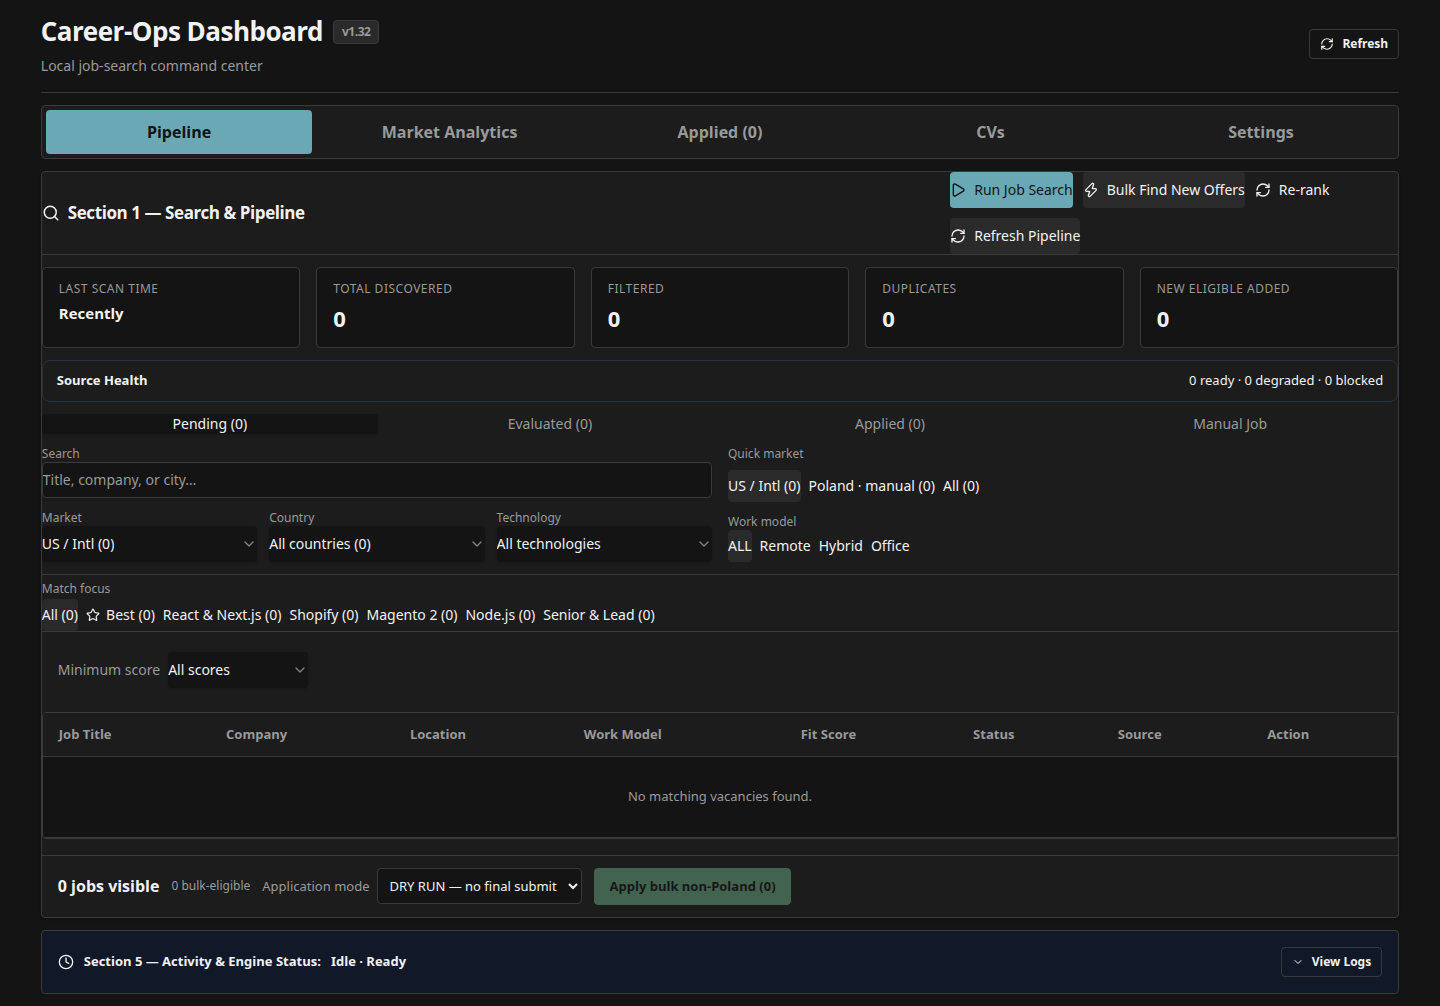
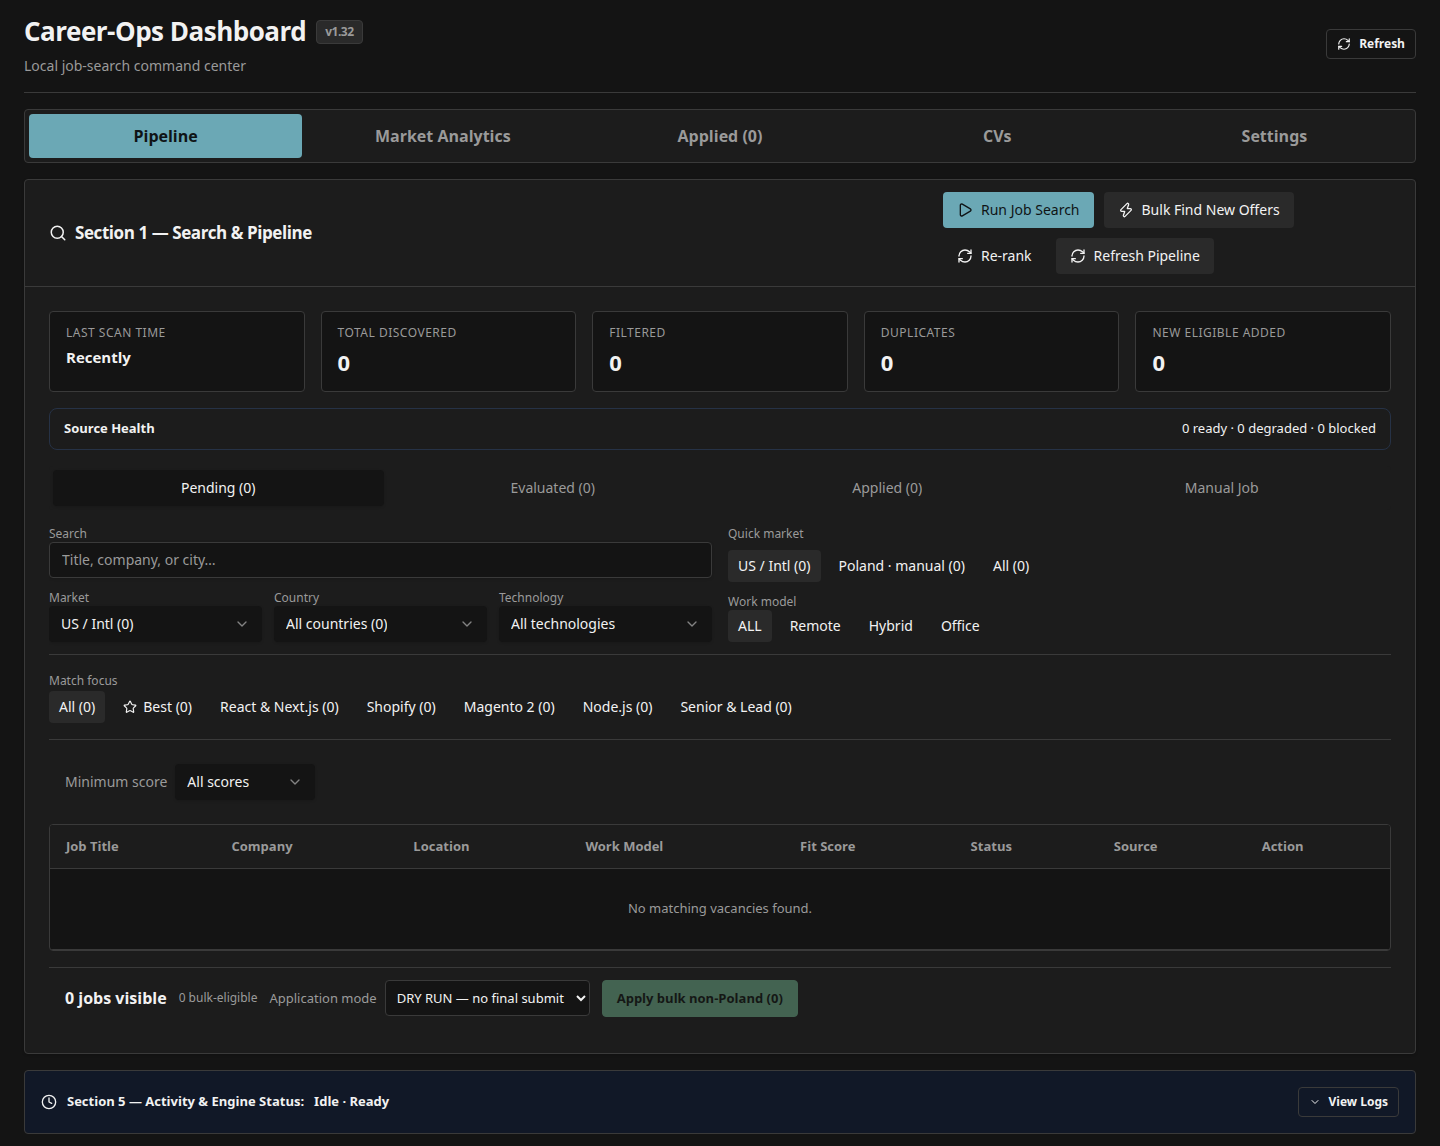
fix(ui): restore horizontal padding and toolbar-to-table spacing
Remove universal padding:0 reset that blocked Tailwind px-* utilities.
Add dashboard and pipeline section insets (16px/24px), gap-4 between
toolbar blocks and the job table, and aligned stats/filters/table edges.

diff --git a/ui/src/App.tsx b/ui/src/App.tsx
@@ -641,7 +641,7 @@ export function App() {
     });
 
   return (
-    <div className={`dashboard ${selectedJob ? "has-job-details" : ""}`}>
+    <div className={`dashboard box-border flex flex-col gap-3 px-4 py-2.5 md:gap-4 md:px-6 md:py-3 ${selectedJob ? "has-job-details" : ""}`}>
       {/* Header */}
       <header className="header">
         <div className="header-title-group">
@@ -877,7 +877,7 @@ export function App() {
 
       {/* SECTION 1: SEARCH & PIPELINE */}
       {activeTab === "pipeline" && <Card className="card pipeline-card gap-0 border-border bg-card !p-0 overflow-hidden">
-        <CardHeader className="card-header flex-col items-stretch gap-3 space-y-0 border-b border-border p-3 sm:flex-row sm:items-start sm:justify-between">
+        <CardHeader className="pipeline-section-header card-header flex-col items-stretch gap-3 space-y-0 border-b border-border px-4 py-3 md:px-6 sm:flex-row sm:items-start sm:justify-between">
           <CardTitle className="card-title flex items-center gap-2 text-base font-semibold">
             <Search size={18} /> Section 1 — Search & Pipeline
           </CardTitle>
@@ -899,10 +899,10 @@ export function App() {
             </Button>
           </div>
         </CardHeader>
-        <CardContent className="flex flex-col gap-3 p-3">
+        <CardContent className="pipeline-section-body flex flex-col gap-4 px-4 pb-4 pt-3 md:px-6 md:pb-6">
 
         {/* Stats Strip */}
-        <div className="stats-strip">
+        <div className="stats-strip min-w-0 w-full">
           <div className="stat-box">
             <span className="stat-label">Last Scan Time</span>
             <span className="stat-value" style={{ fontSize: "15px" }}>
@@ -967,7 +967,7 @@ export function App() {
             setModelFilter={setModelFilter}
           />
 
-        <div className="flex min-w-0 w-full flex-col gap-3 md:gap-4">
+        <div className="flex min-w-0 w-full flex-col gap-4">
         {pipelineView === "manual" && (
           <ManualJobBoard
             providerId={selectedProviderId}

diff --git a/ui/src/App.css b/ui/src/App.css
@@ -2,19 +2,46 @@
 
 .dashboard {
   max-width: 1950px;
-  width: min(96vw, 100%);
+  width: 100%;
   margin: 0 auto;
-  padding: 0.625rem;
   display: flex;
   flex-direction: column;
-  gap: 0.625rem;
   flex: 1;
+  box-sizing: border-box;
+  padding-inline: 1rem;
+  padding-block: 0.625rem;
+  gap: 0.75rem;
 }
 
 @media (min-width: 768px) {
   .dashboard {
-    padding: 0.75rem;
-    gap: 0.75rem;
+    padding-inline: 1.5rem;
+    padding-block: 0.75rem;
+    gap: 1rem;
+  }
+}
+
+.pipeline-card .pipeline-section-body {
+  padding-inline: 1rem;
+  padding-bottom: 1rem;
+  padding-top: 0.75rem;
+  gap: 1rem;
+}
+
+@media (min-width: 768px) {
+  .pipeline-card .pipeline-section-body {
+    padding-inline: 1.5rem;
+    padding-bottom: 1.5rem;
+  }
+}
+
+.pipeline-card .pipeline-section-header {
+  padding-inline: 1rem;
+}
+
+@media (min-width: 768px) {
+  .pipeline-card .pipeline-section-header {
+    padding-inline: 1.5rem;
   }
 }
 

diff --git a/ui/src/PipelineFilters.tsx b/ui/src/PipelineFilters.tsx
@@ -380,8 +380,8 @@ export function PipelineFilters(props: PipelineFiltersProps) {
   const showJobFilters = pipelineView !== "manual";
 
   return (
-    <div className={cn("w-full min-w-0 overflow-x-hidden border-b border-border py-3", className)}>
-      <div className="flex min-w-0 flex-col gap-3">
+    <div className={cn("w-full min-w-0 overflow-x-hidden border-b border-border pb-4", className)}>
+      <div className="flex min-w-0 flex-col gap-4">
         <PipelineViewTabs {...props} />
         {showJobFilters && (
           <>

diff --git a/ui/src/index.css b/ui/src/index.css
@@ -93,7 +93,6 @@
 * {
   box-sizing: border-box;
   margin: 0;
-  padding: 0;
 }
 
 body {
